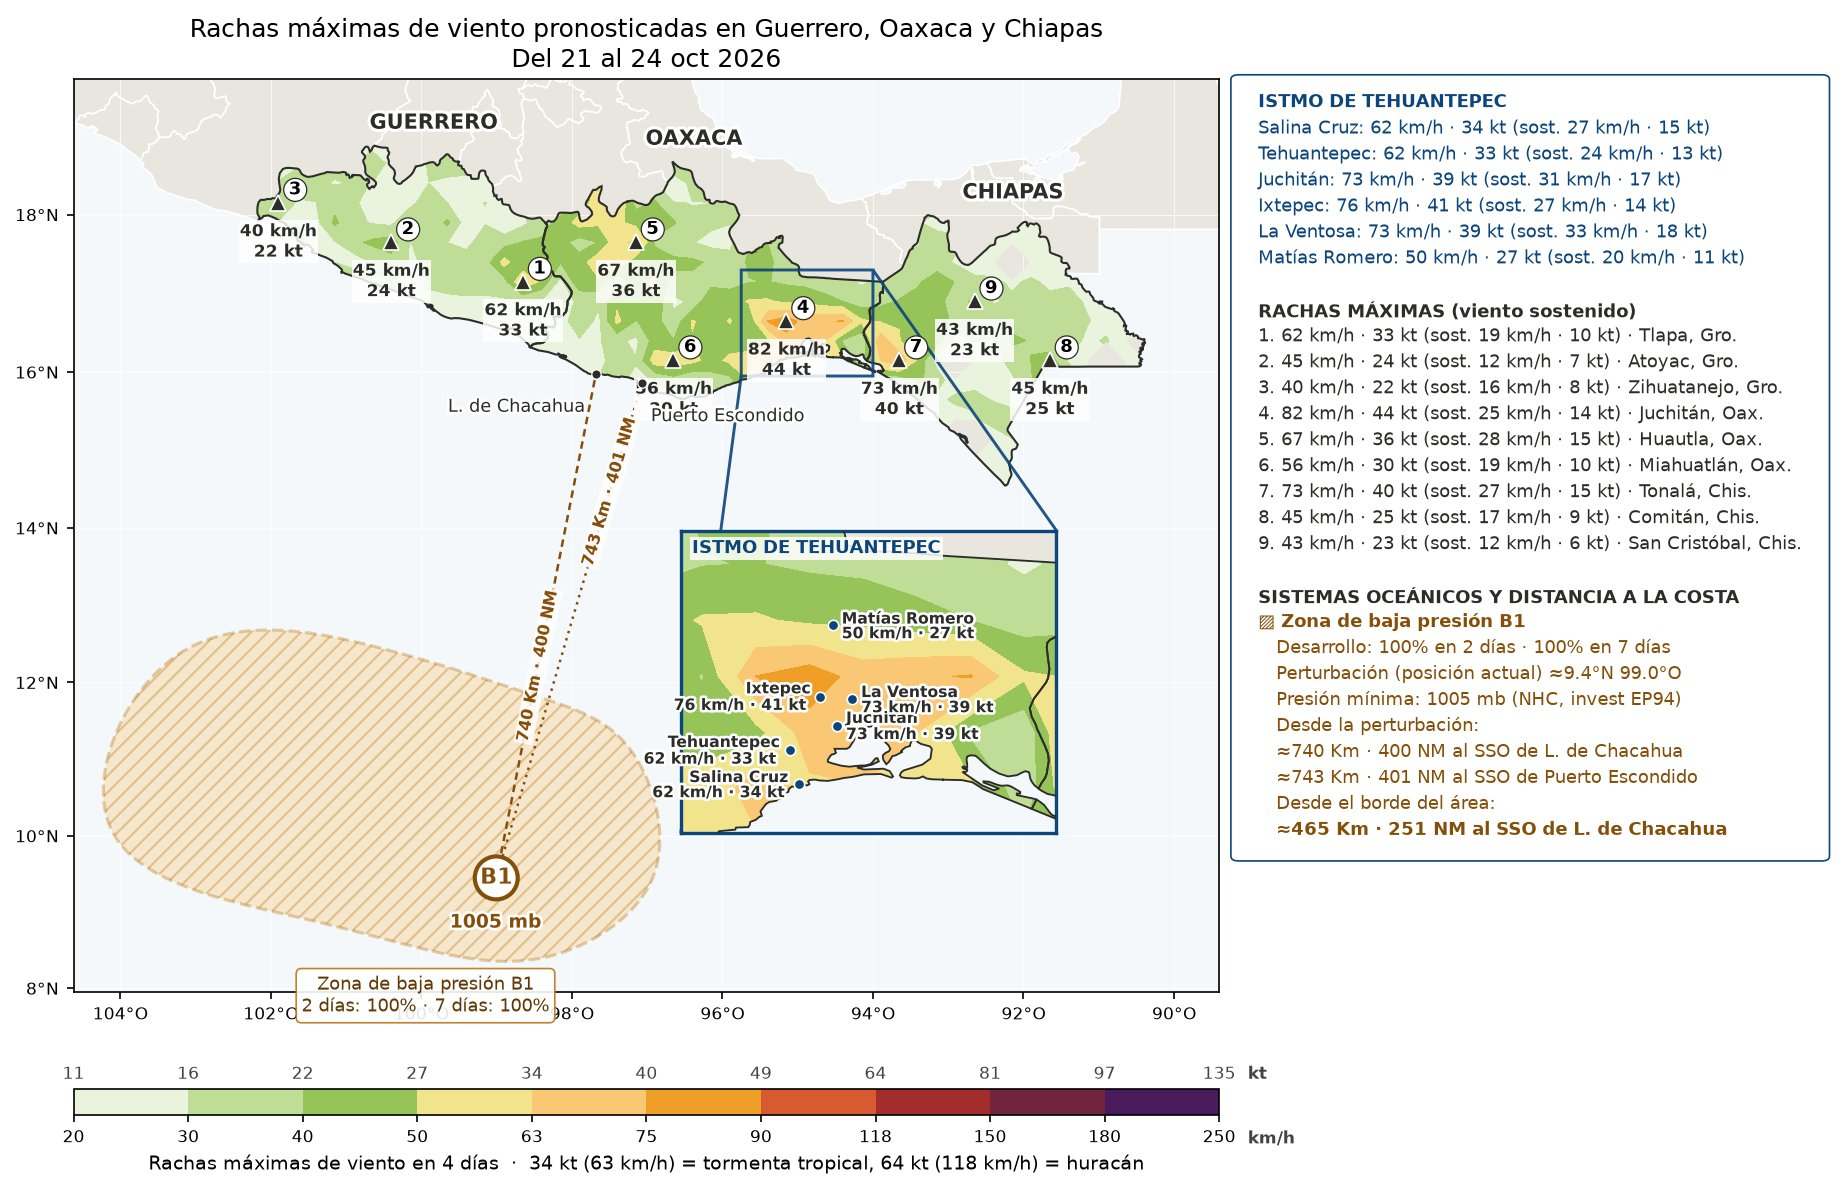
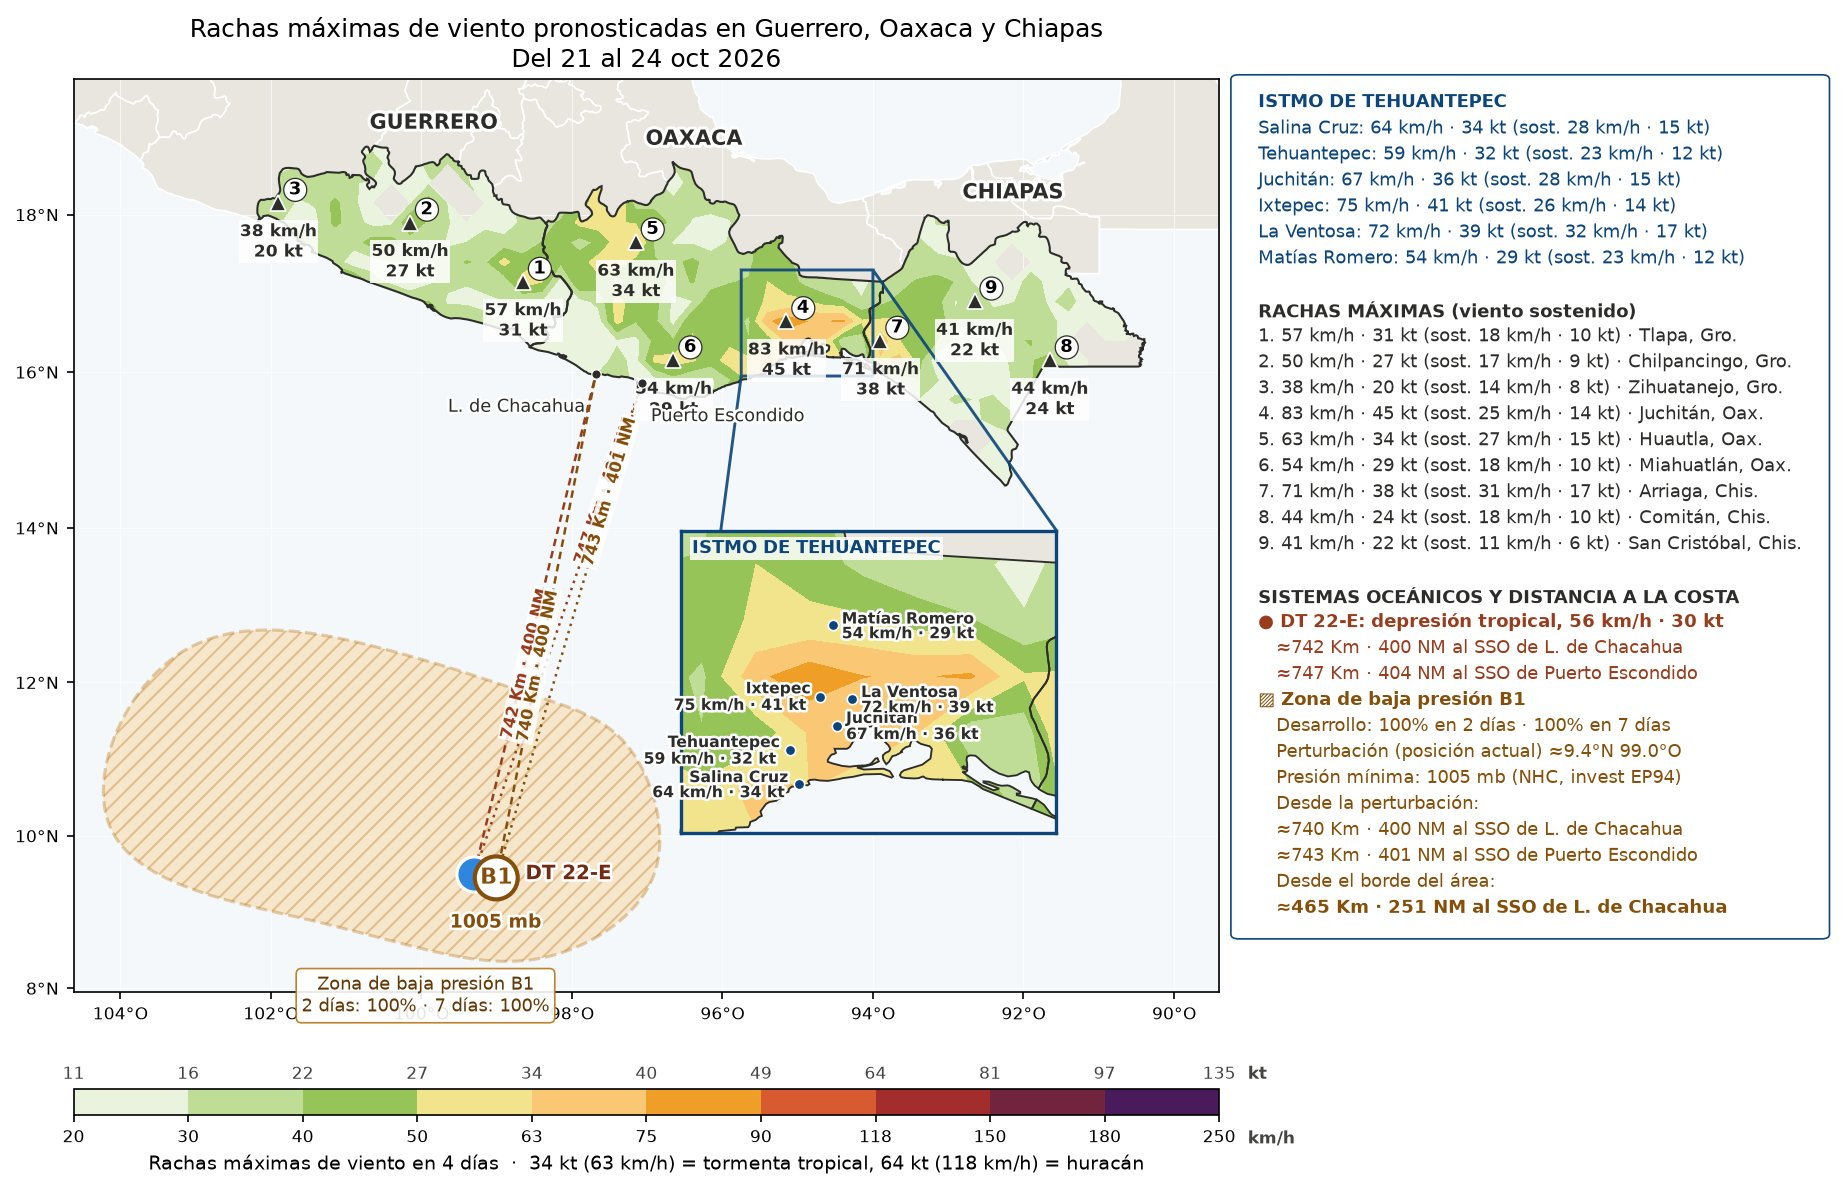
Monitor 21/10 08:50 (mapas nuevos)

diff --git a/index.html b/index.html
@@ -62,7 +62,7 @@ pre{overflow-x:auto;font-size:.75rem;background:var(--bg);padding:10px;border-ra
 <section class="t" id="sec_log"><details><summary>Registro (últimas líneas)</summary><pre id="log"></pre></details></section>
 </main>
 <div id="zoom"><img alt=""></div>
-<script id="datos" type="application/json">{"generado": "2026-10-21T08:07:14.150852", "ultima_revision": "2026-10-21T08:07:14.119418", "decision": "sin cambios", "ultima_imagen": "2026-10-21T07:27:16.278888", "motivo_imagen": "cambios acumulados en 3 h: zonas", "pendientes": [], "intervalo_h": 3, "resumen": {"ciclones": {}, "zonas": [{"lat": 9.4, "lon": -99.0, "n": "1", "p2": 100, "p7": 100}]}, "historial": [{"fecha": "2026-10-20T17:13:39.559089", "motivo": "manual (--forzar)"}, {"fecha": "2026-10-20T17:39:54.487717", "motivo": "manual (--forzar)"}, {"fecha": "2026-10-20T17:45:41.837918", "motivo": "manual (--forzar)"}, {"fecha": "2026-10-20T17:52:21.020479", "motivo": "manual (--forzar)"}, {"fecha": "2026-10-20T18:27:13.446339", "motivo": "manual (--forzar)"}, {"fecha": "2026-10-20T18:41:26.135377", "motivo": "manual (--forzar)"}, {"fecha": "2026-10-20T18:51:11.782376", "motivo": "manual (--forzar)"}, {"fecha": "2026-10-20T22:00:47.413328", "motivo": "cambios acumulados en 3 h: modelo"}, {"fecha": "2026-10-21T01:07:16.707616", "motivo": "cambios acumulados en 3 h: zonas"}, {"fecha": "2026-10-21T04:20:30.390932", "motivo": "cambios acumulados en 3 h: modelo"}, {"fecha": "2026-10-21T07:27:16.278888", "motivo": "cambios acumulados en 3 h: zonas"}], "imagenes": {"lluvia": {"src": "lluvia.jpg?v=202610210727", "fecha": "2026-10-21T07:27:09.718434"}, "viento": {"src": "viento.jpg?v=202610210727", "fecha": "2026-10-21T07:27:14.578933"}}, "log": [], "umbral_av": 50, "umbral_mal": 110}</script>
+<script id="datos" type="application/json">{"generado": "2026-10-21T08:50:23.637506", "ultima_revision": "2026-10-21T08:50:23.611108", "decision": "imágenes generadas", "ultima_imagen": "2026-10-21T08:50:23.611108", "motivo_imagen": "CAMBIO SIGNIFICATIVO: Twenty-Two-E entró a la jurisdicción (DT)", "pendientes": [], "intervalo_h": 3, "resumen": {"ciclones": {"ep222026": {"nombre": "Twenty-Two-E", "kt": 30, "cat": "DT"}}, "zonas": [{"lat": 9.4, "lon": -99.0, "n": "1", "p2": 100, "p7": 100}]}, "historial": [{"fecha": "2026-10-20T17:13:39.559089", "motivo": "manual (--forzar)"}, {"fecha": "2026-10-20T17:39:54.487717", "motivo": "manual (--forzar)"}, {"fecha": "2026-10-20T17:45:41.837918", "motivo": "manual (--forzar)"}, {"fecha": "2026-10-20T17:52:21.020479", "motivo": "manual (--forzar)"}, {"fecha": "2026-10-20T18:27:13.446339", "motivo": "manual (--forzar)"}, {"fecha": "2026-10-20T18:41:26.135377", "motivo": "manual (--forzar)"}, {"fecha": "2026-10-20T18:51:11.782376", "motivo": "manual (--forzar)"}, {"fecha": "2026-10-20T22:00:47.413328", "motivo": "cambios acumulados en 3 h: modelo"}, {"fecha": "2026-10-21T01:07:16.707616", "motivo": "cambios acumulados en 3 h: zonas"}, {"fecha": "2026-10-21T04:20:30.390932", "motivo": "cambios acumulados en 3 h: modelo"}, {"fecha": "2026-10-21T07:27:16.278888", "motivo": "cambios acumulados en 3 h: zonas"}, {"fecha": "2026-10-21T08:50:23.611108", "motivo": "CAMBIO SIGNIFICATIVO: Twenty-Two-E entró a la jurisdicción (DT)"}], "imagenes": {"lluvia": {"src": "lluvia.jpg?v=202610210850", "fecha": "2026-10-21T08:50:17.024542"}, "viento": {"src": "viento.jpg?v=202610210850", "fecha": "2026-10-21T08:50:21.827604"}}, "log": [], "umbral_av": 50, "umbral_mal": 110}</script>
 <script>
 const D = JSON.parse(document.getElementById("datos").textContent);
 const $ = id => document.getElementById(id);
